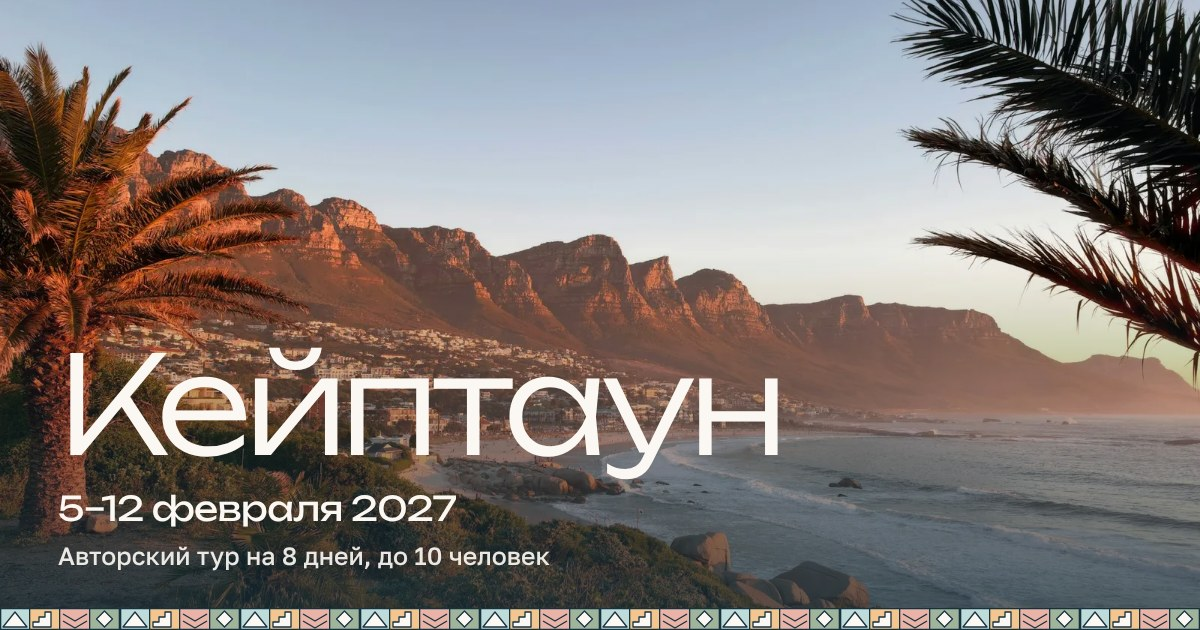
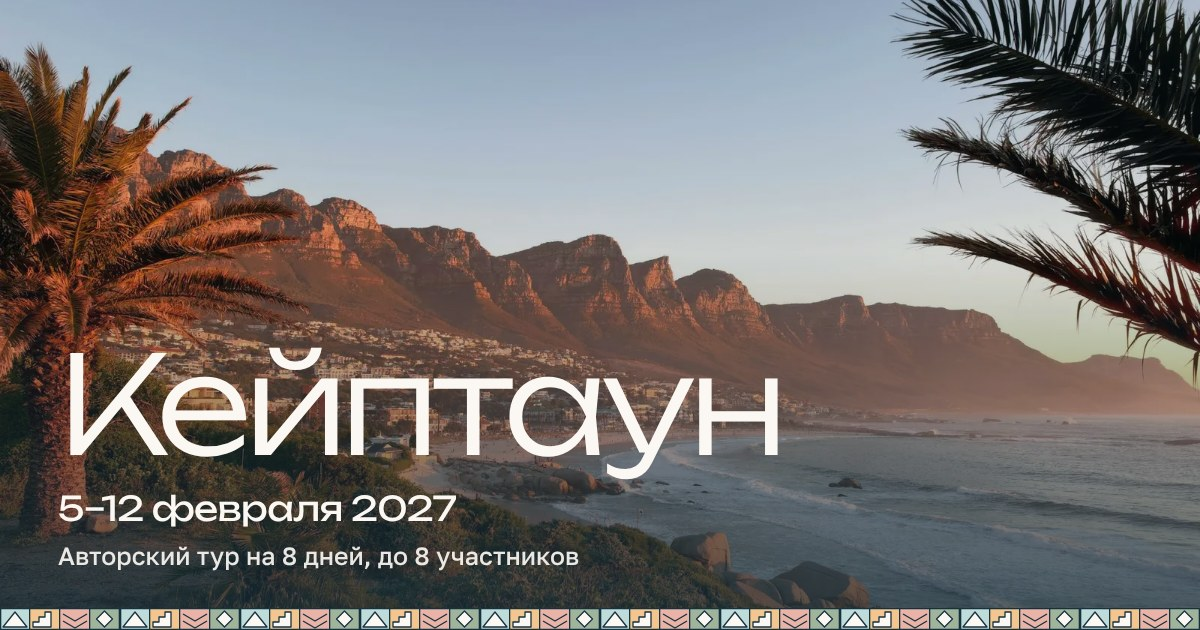
Правки: до 8 участников, затемнение hero, 6 спален в Sunset Beach, Аддис-Абеба
Claude-Session: https://claude.ai/code/session_01HCzkUQCDMD1fogYbCJddQG

diff --git a/index.html b/index.html
@@ -4,11 +4,11 @@
 <meta charset="UTF-8">
 <meta name="viewport" content="width=device-width, initial-scale=1">
 <title>Кейптаун, авторский тур 5–12 февраля 2027 | pov.markiz</title>
-<meta name="description" content="Авторский тур в Кейптаун 5–12 февраля 2027. 8 дней, до 10 человек, две виллы у океана, Столовая гора, пингвины, яхта, винодельня и сафари. 2300 €.">
+<meta name="description" content="Авторский тур в Кейптаун 5–12 февраля 2027. 8 дней, до 8 участников, две виллы у океана, Столовая гора, пингвины, яхта, винодельня и сафари. 2300 €.">
 <meta property="og:type" content="website">
 <meta property="og:url" content="https://povmarkiz.github.io/cape-town/">
 <meta property="og:title" content="Кейптаун, 5–12 февраля 2027">
-<meta property="og:description" content="Авторский тур на 8 дней: до 10 человек, две виллы у океана, сафари, яхта и закаты над Атлантикой.">
+<meta property="og:description" content="Авторский тур на 8 дней: до 8 участников, две виллы у океана, сафари, яхта и закаты над Атлантикой.">
 <meta property="og:image" content="https://povmarkiz.github.io/cape-town/assets/og.jpg">
 <meta property="og:image:width" content="1200">
 <meta property="og:image:height" content="630">
@@ -83,7 +83,7 @@ h2{font-size:clamp(28px,4.2vw,46px);font-weight:300;max-width:18ch}
 /* hero */
 .hero{position:relative;min-height:100svh;display:flex;flex-direction:column;justify-content:flex-end;color:var(--shell);isolation:isolate}
 .hero-img{position:absolute;inset:0;z-index:-2;object-position:40% 50%}
-.hero::after{content:"";position:absolute;inset:0;z-index:-1;background:linear-gradient(180deg,rgba(23,50,63,.35) 0%,rgba(23,50,63,0) 28%,rgba(23,50,63,0) 45%,rgba(23,50,63,.62) 100%)}
+.hero::after{content:"";position:absolute;inset:0;z-index:-1;background:linear-gradient(180deg,rgba(23,50,63,.45) 0%,rgba(23,50,63,.18) 30%,rgba(23,50,63,.28) 50%,rgba(23,50,63,.72) 100%)}
 .hero-in{padding-bottom:40px;padding-top:150px}
 .hero-kicker{font-size:16px;margin-bottom:18px;opacity:.95}
 .hero h1{font-size:clamp(50px,13vw,176px);font-weight:300;letter-spacing:-.05em;line-height:.9;margin-left:-.04em}
@@ -315,7 +315,7 @@ footer a{color:var(--shell)}
       <div class="facts-grid">
         <div class="fact"><b>5–12 февраля</b><span>2027 года</span></div>
         <div class="fact"><b>8 дней</b><span>7 ночей, 2 виллы</span></div>
-        <div class="fact"><b>до 10 человек</b><span>маленькая группа</span></div>
+        <div class="fact"><b>до 8 участников</b><span>маленькая группа</span></div>
         <div class="fact"><b>2300 €</b><span>без перелёта</span></div>
         <a class="btn" href="#book">Записаться</a>
       </div>
@@ -518,7 +518,7 @@ footer a{color:var(--shell)}
         <p class="villa-when">5–9 февраля, 4 ночи</p>
         <p>Мой любимый район: тихий, безопасный, с длинным песчаным пляжем, где каждый вечер безумно красивые закаты и на волнах катаются кайтеры и виндсёрферы.</p>
         <p>Вилла уединённая, с собственным садом и террасой. Идеальное место, чтобы познакомиться поближе и прожить первые дни спокойно и красиво.</p>
-        <div class="villa-tags"><span>4 спальни</span><span>3 ванные</span><span>сад и терраса с грилем</span><span>пляж рядом</span></div>
+        <div class="villa-tags"><span>уютная</span><span>6 спален</span><span>3 ванные</span><span>своя территория</span><span>пляж рядом</span></div>
       </div>
 <div class="vg" data-count="10"><button class="vg-item" data-lb="v1" data-i="0" aria-label="Фото Вилла в Sunset Beach, 1 из 10"><img class="" src="assets/img/v1-01-s.webp" srcset="assets/img/v1-01-s.webp 800w, assets/img/v1-01.webp 1600w" sizes="(min-width: 900px) 30vw, 82vw" alt="Вилла в Sunset Beach, фото 1" loading="lazy" decoding="async"></button><button class="vg-item" data-lb="v1" data-i="1" aria-label="Фото Вилла в Sunset Beach, 2 из 10"><img class="" src="assets/img/v1-02-s.webp" srcset="assets/img/v1-02-s.webp 800w, assets/img/v1-02.webp 1600w" sizes="(min-width: 900px) 30vw, 82vw" alt="Вилла в Sunset Beach, фото 2" loading="lazy" decoding="async"></button><button class="vg-item" data-lb="v1" data-i="2" aria-label="Фото Вилла в Sunset Beach, 3 из 10"><img class="" src="assets/img/v1-03-s.webp" srcset="assets/img/v1-03-s.webp 800w, assets/img/v1-03.webp 1600w" sizes="(min-width: 900px) 30vw, 82vw" alt="Вилла в Sunset Beach, фото 3" loading="lazy" decoding="async"></button><button class="vg-item" data-lb="v1" data-i="3" aria-label="Фото Вилла в Sunset Beach, 4 из 10"><img class="" src="assets/img/v1-04-s.webp" srcset="assets/img/v1-04-s.webp 800w, assets/img/v1-04.webp 1600w" sizes="(min-width: 900px) 30vw, 82vw" alt="Вилла в Sunset Beach, фото 4" loading="lazy" decoding="async"></button><button class="vg-item" data-lb="v1" data-i="4" aria-label="Фото Вилла в Sunset Beach, 5 из 10"><img class="" src="assets/img/v1-05-s.webp" srcset="assets/img/v1-05-s.webp 800w, assets/img/v1-05.webp 1600w" sizes="(min-width: 900px) 30vw, 82vw" alt="Вилла в Sunset Beach, фото 5" loading="lazy" decoding="async"></button><button class="vg-item" data-lb="v1" data-i="5" aria-label="Фото Вилла в Sunset Beach, 6 из 10"><img class="" src="assets/img/v1-06-s.webp" srcset="assets/img/v1-06-s.webp 800w, assets/img/v1-06.webp 1600w" sizes="(min-width: 900px) 30vw, 82vw" alt="Вилла в Sunset Beach, фото 6" loading="lazy" decoding="async"></button><button class="vg-item" data-lb="v1" data-i="6" aria-label="Фото Вилла в Sunset Beach, 7 из 10"><img class="" src="assets/img/v1-07-s.webp" srcset="assets/img/v1-07-s.webp 800w, assets/img/v1-07.webp 1600w" sizes="(min-width: 900px) 30vw, 82vw" alt="Вилла в Sunset Beach, фото 7" loading="lazy" decoding="async"></button><button class="vg-item" data-lb="v1" data-i="7" aria-label="Фото Вилла в Sunset Beach, 8 из 10"><img class="" src="assets/img/v1-08-s.webp" srcset="assets/img/v1-08-s.webp 800w, assets/img/v1-08.webp 1600w" sizes="(min-width: 900px) 30vw, 82vw" alt="Вилла в Sunset Beach, фото 8" loading="lazy" decoding="async"></button><button class="vg-item" data-lb="v1" data-i="8" aria-label="Фото Вилла в Sunset Beach, 9 из 10"><img class="" src="assets/img/v1-09-s.webp" srcset="assets/img/v1-09-s.webp 800w, assets/img/v1-09.webp 1600w" sizes="(min-width: 900px) 30vw, 82vw" alt="Вилла в Sunset Beach, фото 9" loading="lazy" decoding="async"></button><button class="vg-item" data-lb="v1" data-i="9" aria-label="Фото Вилла в Sunset Beach, 10 из 10"><img class="" src="assets/img/v1-10-s.webp" srcset="assets/img/v1-10-s.webp 800w, assets/img/v1-10.webp 1600w" sizes="(min-width: 900px) 30vw, 82vw" alt="Вилла в Sunset Beach, фото 10" loading="lazy" decoding="async"></button></div>
     </div>
@@ -549,7 +549,7 @@ footer a{color:var(--shell)}
     <div>
       <h2>Марк</h2>
       <p class="org-role">Организатор, автор блога <a href="https://instagram.com/pov.markiz" target="_blank" rel="noopener">@pov.markiz</a></p>
-      <p>Сертифицированный яхтенный капитан. Уже несколько лет вожу небольшие группы в путешествия по Турции, Канарам, Мадейре, Японии, Африке и дальше. Для меня это не работа, а способ показать людям мир так, как я вижу его сам.</p>
+      <p>Сертифицированный яхтенный капитан и путешественник. Уже несколько лет вожу небольшие группы в путешествия по Турции, Канарам, Мадейре, Японии, Африке и дальше. Для меня это не работа, а способ показать людям мир так, как я вижу его сам.</p>
     </div>
   </div>
 </section>
@@ -558,7 +558,7 @@ footer a{color:var(--shell)}
   <div class="wrap">
     <div class="price-top">
       <div class="price-num">2300 €</div>
-      <div class="price-meta"><span class="pill">5–12 февраля 2027</span><span class="pill">8 дней</span><span class="pill">до 10 мест</span></div>
+      <div class="price-meta"><span class="pill">5–12 февраля 2027</span><span class="pill">8 дней</span><span class="pill">до 8 участников</span></div>
       <p class="price-sub">Стоимость участия за одного человека, без перелёта.</p>
     </div>
     <div class="inc">
@@ -598,7 +598,7 @@ footer a{color:var(--shell)}
     <div class="sec-head"><h2>Частые вопросы</h2></div>
     <div class="faq-list">
 <details class="faq-i"><summary>Какая погода в феврале?</summary><p>Разгар лета. Днём обычно +25…28 и солнце, вечером прохладнее, часто дует ветер. Атлантика бодрящая, около +15, но в бухтах и природных бассейнах купаться приятно.</p></details>
-<details class="faq-i"><summary>Как туда долететь?</summary><p>Прямых рейсов из Москвы нет, летим с одной-двумя пересадками, например через Абу-Даби, Дубай или Стамбул. В среднем около 900 € туда и обратно. Помогу подобрать удобный вариант и состыковаться с группой.</p></details>
+<details class="faq-i"><summary>Как туда долететь?</summary><p>Прямых рейсов из Москвы нет, летим с одной-двумя пересадками, например через Абу-Даби, Дубай, Стамбул или Аддис-Абебу. В среднем около 900 € туда и обратно. Помогу подобрать удобный вариант и состыковаться с группой.</p></details>
 <details class="faq-i"><summary>Насколько это безопасно?</summary><p>Полностью. Живём в двух самых спокойных районах, передвигаемся на своих машинах, маршрут проверен лично. Я рядом всю поездку.</p></details>
 <details class="faq-i"><summary>Как платить на месте?</summary><p>Российские карты в ЮАР не работают. Берите наличные доллары или евро и меняйте на рэнды на месте, либо карту зарубежного банка. Подскажу, сколько взять.</p></details>
 <details class="faq-i"><summary>Нужна ли виза?</summary><p>Нет. Гражданам России можно находиться в ЮАР без визы до 90 дней. Нужен загранпаспорт с двумя чистыми страницами.</p></details>
@@ -611,7 +611,7 @@ footer a{color:var(--shell)}
   <div class="wrap">
     <div class="sec-head">
       <h2>Как попасть в группу</h2>
-      <p>Мест всего 10. Напиши, и я расскажу всё, что не поместилось на эту страницу.</p>
+      <p>Мест всего 8. Напиши, и я расскажу всё, что не поместилось на эту страницу.</p>
     </div>
     <ol class="steps">
       <li><h3>Напиши в Telegram</h3><p>Расскажу детали и отвечу на первые вопросы.</p></li>
@@ -621,7 +621,6 @@ footer a{color:var(--shell)}
     </ol>
     <div class="book-cta">
       <a class="btn btn-light" href="https://t.me/xfufx" target="_blank" rel="noopener">Написать в Telegram</a>
-      <span class="pill">до 10 мест</span><span class="pill">5–12 февраля 2027</span><span class="pill">2300 €</span>
     </div>
   </div>
   <div class="band" role="presentation"></div>
